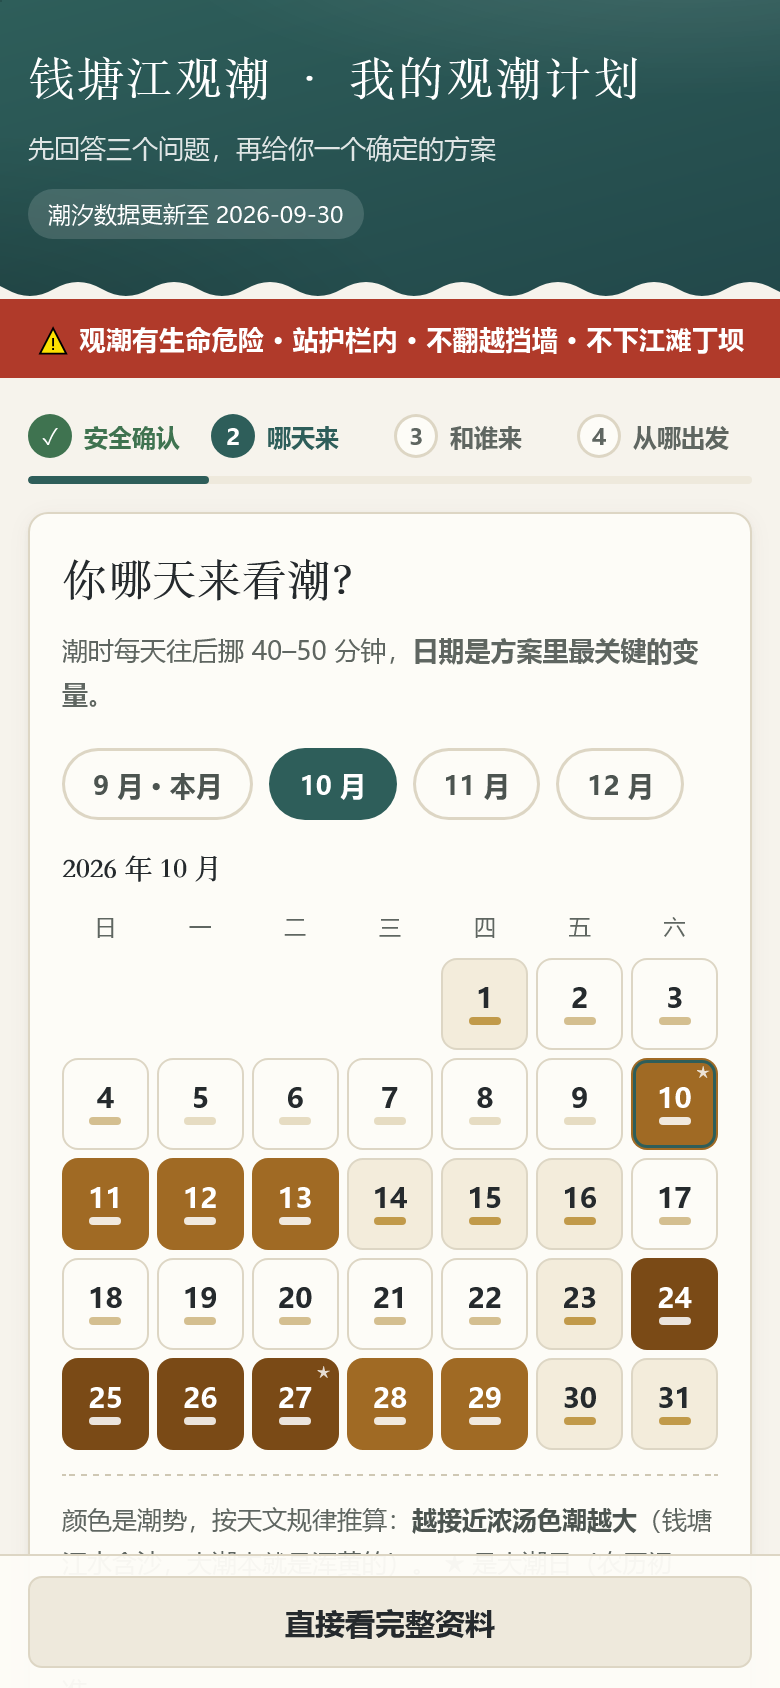
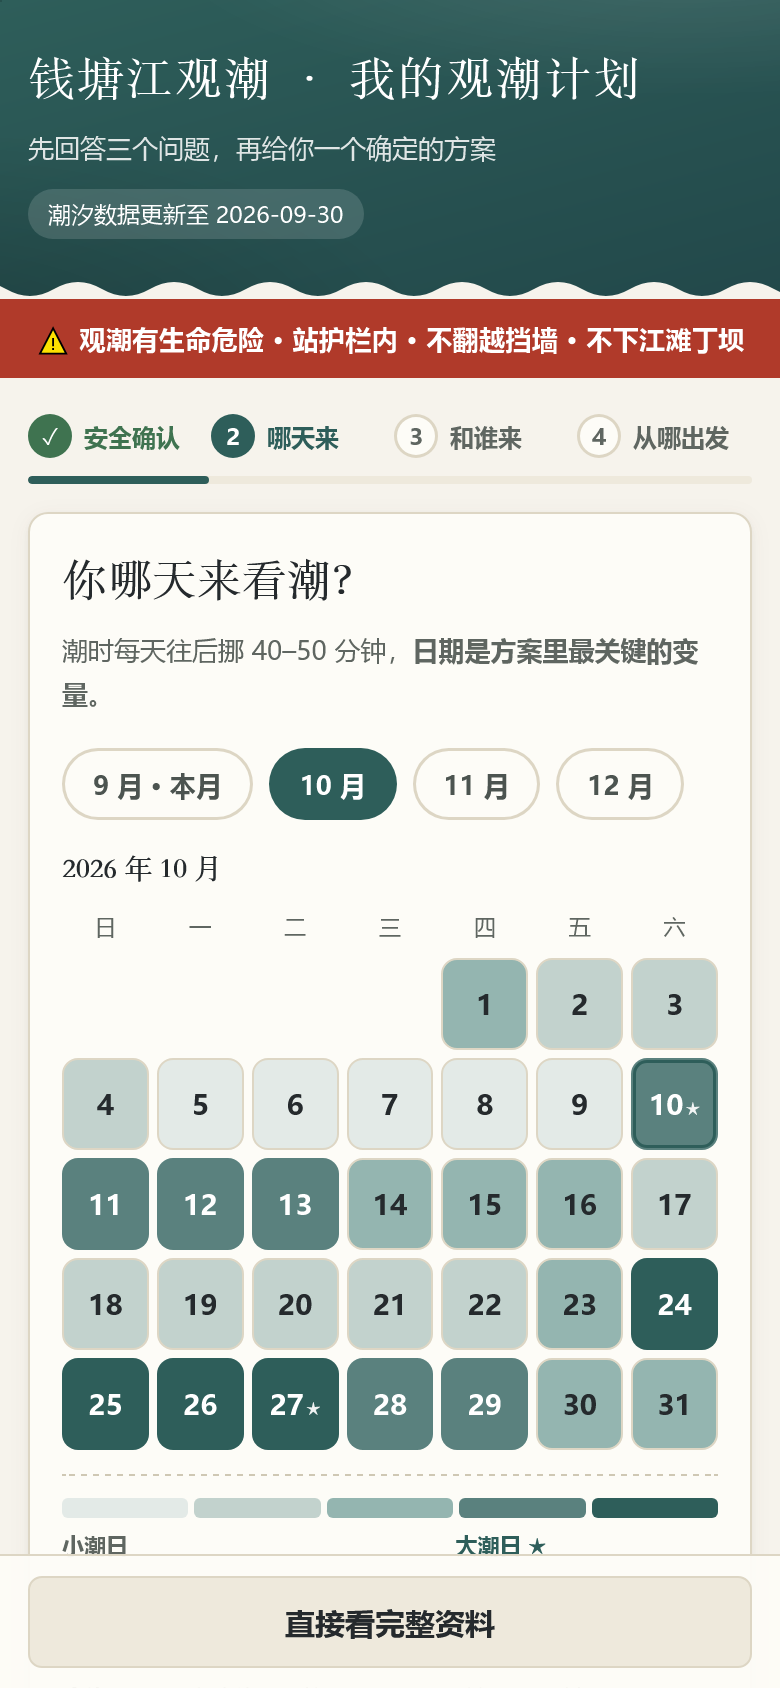
方案卡：前一天/后一天换日、涌高+潮型+分级说明、「怎么去」路线替代建议出发、实拍图占位；日历改黛青墨阶单通道编码

Changed region(s): [[0.0615, 0.5545, 0.9231, 0.9242]]

diff --git a/app.js b/app.js
@@ -268,11 +268,7 @@
       if (!target) return;
 
       let ms, label;
-      if (c.phase === 'planned' || c.phase === 'depart') {
-        ms = c.msToDepart; label = '距离出发';
-      } else {
-        ms = c.msToTide; label = '距离潮到';
-      }
+      ms = c.msToTide; label = '距离潮到';
 
       /* 阶段翻转时的重绘必须**异步**（setTimeout 0）。
          曾在这里同步调 renderPlanMain() → 它又会 startHeroTick → paint →
@@ -396,7 +392,6 @@
   function pointCardHtml(p, dateStr) {
     const rec = TideData.getTide(dateStr, p.id);
     const isWild = p.type === 'wild';
-    const c = rec ? CountdownEngine.compute(dateStr, p.id, { driveMinutes: driveMinutesOf(p.id) }) : null;
 
     const timeText = rec
       ? [(rec.morning && rec.morning !== '—' && rec.morning !== '...' ? `早 ${rec.morning}` : ''),
@@ -466,13 +461,13 @@
         <div class="point-tags">${tags.join('')}</div>
         <div class="point-body">
           <div class="kv"><span class="k">今日潮时</span><span class="v mono"><b>${timeText}</b>${!staleNow && level ? ` · ${stars(level)}` : ''}</span></div>
-          ${c && c.phase !== 'nodata' && c.phase !== 'passed' ? `<div class="kv"><span class="k">建议出发</span><span class="v mono">${CountdownEngine.hhmm(c.departAt)}（车程约 ${c.driveMinutes} 分${driveSourceTag(p.id)} + 提前 ${c.leadMinutes} 分候潮）</span></div>` : ''}
+          ${!staleNow && rec && rec.height ? `<div class="kv"><span class="k">涌高</span><span class="v mono">约 ${esc(rec.height)}</span></div>` : ''}
         </div>
         ${l3}
         ${wildFoot}
         <div class="point-actions">
           <button class="btn ${selected ? 'btn-primary' : 'btn-outline'}" data-pick="${p.id}">
-            ${selected ? '✓ 已选中' : '选它，算出发时间'}
+            ${selected ? '✓ 已选中' : '选它作为我的点位'}
           </button>
           <button class="btn btn-ghost" data-viewmap="${p.id}">复制导航词</button>
         </div>
@@ -1329,6 +1324,26 @@
     };
   }
 
+  /** 方案页快速换日（‹ ›）：只换日期，不动其他答案 */
+  function shiftDate(delta) {
+    if (!state.date) return;
+    const d = new Date(state.date + 'T00:00:00');
+    d.setDate(d.getDate() + delta);
+    const key = CountdownEngine.toDateKey(d);
+    if (key < todayKey()) { toast('过去的日子就不看了'); return; }
+    state.date = key; chosen.date = true;
+    state.customTideAM = ''; state.customTidePM = '';
+    saveState();
+    renderAll();
+  }
+
+  /** 点位实拍图：有照片用照片，没有先放占位（水墨底 + 点位名） */
+  function photoHtml(p, cls) {
+    return `<div class="${cls}">${p.photo
+      ? `<img src="${esc(p.photo)}" alt="${esc(p.name)}" loading="lazy">`
+      : `<span>${esc(p.short || p.name)} · 实拍图待补</span>`}</div>`;
+  }
+
   /** 某一步是否已答 */
   function isAnswered(step) {
     const q = QUESTIONS[step];
@@ -1454,11 +1469,10 @@
                 ${['日', '一', '二', '三', '四', '五', '六'].map(w => `<span class="ask-cal-wd">${w}</span>`).join('')}
                 ${'<span class="ask-cal-pad"></span>'.repeat(am.pad)}
                 ${am.days.map(day => day.past
-                  ? `<button type="button" class="ask-date" disabled><b>${day.d}</b></button>`
+                  ? `<button type="button" class="ask-date" disabled><span class="dn"><b>${day.d}</b></span></button>`
                   : `<button type="button" data-date="${day.key}" data-lv="${day.lv}" aria-pressed="${day.key === state.date}"
-                      class="ask-date ${day.key === state.date ? 'on' : ''} ${day.today ? 'today' : ''}"
-                      style="--lv:${TideData.levelColor(day.lv)}">
-                      <b>${day.d}</b>${day.peak ? '<i>★</i>' : ''}
+                      class="ask-date ${day.key === state.date ? 'on' : ''} ${day.today ? 'today' : ''}">
+                      <span class="dn"><b>${day.d}</b>${day.peak ? '<i>★</i>' : ''}</span>
                     </button>`).join('')}
               </div>
             </div>
@@ -1467,9 +1481,16 @@
             内置潮汐表已过期，<b>大潮日的具体潮时已隐去</b>；日历等级按天文规律推算，仍然可用。
             到方案页后请用「官方入口」查当日权威潮时。</div>` : ''}
           <div class="ask-cal-legend">
-            颜色是潮势，按天文规律推算：<b>越接近浓汤色潮越大</b>（钱塘江水含沙，大潮本就是浑黄的）。
-            ★ 是大潮日（农历初三、十八前后最盛），大潮日给出具体潮时；
-            小潮日只有等级，大概率只看到一条白线。出发前以当日官方预报为准。
+            <div class="lg-bar">
+              <div class="lg-cells">
+                <span style="background:var(--lv1)"></span><span style="background:var(--lv2)"></span><span style="background:var(--lv3)"></span><span style="background:var(--lv4)"></span><span style="background:var(--lv5)"></span>
+              </div>
+              <div class="lg-zones"><span>小潮日</span><span class="z2">大潮日 ★</span></div>
+            </div>
+            <p>潮势根据天文规律推算，用颜色表示：<b>颜色越深则潮越大</b>，★ 为大潮日（农历初三、十八前后最盛）</p>
+            <p><b>大潮日</b>：一定来潮，时间大概准，误差几十分钟</p>
+            <p><b>小潮日</b>：不一定来潮，时间很不准，可能白跑一趟，看到一条"白线"</p>
+            <p>不管哪天，出发前查当日官方预报，那才是"今天到底几点几分来"。</p>
           </div>
         </div>`;
 
@@ -1782,8 +1803,11 @@
         const near = TideData.allDates.find(d2 => d2 >= dateStr);
         const nearDay = near ? TideData.TIDE_TABLE[near] : null;
         const lv = TideData.approxLevel(dateStr);
+        const sd = new Date(dateStr + 'T00:00:00');
+        const sweek = '日一二三四五六'[sd.getDay()];
         box.innerHTML = `<div class="plan-card">
           <div class="plan-kicker">你的方案</div>
+          <div class="plan-when"><button class="day-nav" id="dayPrev" aria-label="前一天">‹</button><span>${sd.getMonth() + 1} 月 ${sd.getDate()} 日 · 周${sweek}</span><button class="day-nav" id="dayNext" aria-label="后一天">›</button></div>
           <h2 class="plan-where">这天是小潮</h2>
           <p class="plan-why">按天文规律推算，这天潮势${lv <= 2 ? '较弱' : '一般'}，
             大概率只能看到一条白线，看不到成型的潮头，本站不为此给出具体潮时。
@@ -1795,6 +1819,8 @@
         </div>`;
         const gp = $('#gotoPeak');
         if (gp && near) gp.addEventListener('click', () => { setDate(near); });
+        const dp0 = $('#dayPrev'); if (dp0) dp0.addEventListener('click', () => shiftDate(-1));
+        const dn0 = $('#dayNext'); if (dn0) dn0.addEventListener('click', () => shiftDate(1));
       }
       const b = $('#planBackAsk'); if (b) b.addEventListener('click', () => editAnswer('date'));
       return;
@@ -1808,7 +1834,6 @@
 
     const d = new Date(dateStr + 'T00:00:00');
     const week = '日一二三四五六'[d.getDay()];
-    const dd = driveFor(point.id);
 
     /* ---- 潮时区：过期时不给数字 ---- */
     let timesHtml;
@@ -1827,34 +1852,28 @@
           ].filter(Boolean).join(' · ') || '当天无潮时数据'
         : '当天无潮时数据';
 
-      const departOk = c.phase !== 'nodata' && c.phase !== 'passed';
       timesHtml = `<div class="plan-times">
         <div class="span2">
           <div class="k">潮时</div>
           <div class="v">${esc(tideTxt)}</div>
-          ${rec && rec.level ? `<div class="n">潮势 ${TideData.levelText(rec.level)}（${stars(rec.level)}）${rec.overridden ? ' · 已按你的校正' : ''}</div>` : ''}
+          ${rec && rec.level ? `<div class="n">潮势 ${TideData.levelText(rec.level)}（${stars(rec.level)} · ${TideData.levelAdvice(rec.level)}）${rec.height ? ` · 涌高约 ${esc(rec.height)}` : ''}${rec.overridden ? ' · 已按你的校正' : ''}</div>` : ''}
+          <div class="n">潮型：${point.tideTypes.map(esc).join(' · ')}</div>
         </div>
-        <div>
-          <div class="k">建议出发</div>
-          <div class="v">${departOk ? CountdownEngine.hhmm(c.departAt) : '—'}</div>
-          <div class="n">${departOk ? departDateNote(c.departAt) : '当天潮已过或无数据'}</div>
-        </div>
-        <div>
-          <div class="k">车程</div>
-          <div class="v">约 ${dd.minutes} 分</div>
-          <div class="n">${dd.source === 'amap' ? '高德实时路况' : (dd.source === 'user' ? '你手动填写' : '按直线距离估算')}
-            ${state.driveMinutes != null
-              ? `<button class="link-btn" id="driveReset">改回自动估算</button>`
-              : `<button class="link-btn" id="driveEdit">不准？手动改</button>`}</div>
+        <div class="span2">
+          <div class="k">怎么去</div>
+          ${[
+            point.transport.rail ? { ico: '🚄', t: '铁路 / 城际', d: point.transport.rail } : null,
+            { ico: '🚗', t: '自驾 / 打车', d: point.transport.nav + (point.transport.parking ? '；' + point.transport.parking : '') },
+            point.transport.extra ? { ico: '🧭', t: '补充', d: point.transport.extra } : null
+          ].filter(Boolean).map(r => `<div class="route-line"><span class="ri">${r.ico}</span><b>${r.t}</b>${esc(r.d)}</div>`).join('')}
         </div>
       </div>`;
     }
 
-    /* ---- 倒计时 ---- */
+    /* ---- 倒计时：统一倒数到潮到（出发时间已按用户决策从方案卡撤下） ---- */
     let countHtml = '';
     if (!staleNow && c.phase !== 'nodata') {
-      const ms = (c.phase === 'planned' || c.phase === 'depart') ? c.msToDepart : c.msToTide;
-      const lbl = (c.phase === 'planned' || c.phase === 'depart') ? '距离出发' : '距离潮到';
+      const lbl = '距离潮到';
       const ui = CountdownEngine.PHASE_UI[c.phase] || CountdownEngine.PHASE_UI.nodata;
       const capTxt = lbl === ui.title ? lbl : `${lbl} · ${ui.title}`;
       countHtml = `<div class="plan-count">
@@ -1877,7 +1896,8 @@
     box.innerHTML = `
       <div class="plan-card" style="${staleNow ? 'border-top-color:var(--warn)' : ''}">
         <div class="plan-kicker">${staleNow ? '你的方案（数据已过期）' : '你的方案'}</div>
-        <div class="plan-when">${d.getMonth() + 1} 月 ${d.getDate()} 日 · 周${week} · ${esc(day.lunisolar)}${day.peak ? ' · 峰值日' : ''}</div>
+        <div class="plan-when"><button class="day-nav" id="dayPrev" aria-label="前一天">‹</button><span>${d.getMonth() + 1} 月 ${d.getDate()} 日 · 周${week} · ${esc(day.lunisolar)}${day.peak ? ' · 峰值日' : ''}</span><button class="day-nav" id="dayNext" aria-label="后一天">›</button></div>
+        ${photoHtml(point, 'plan-photo')}
         <h2 class="plan-where">去 ${esc(point.name)}</h2>
         <p class="plan-why">${reasons.filter(Boolean).map(esc).join(' ')}</p>
         ${countHtml}
@@ -1893,30 +1913,9 @@
     /* 倒计时 tick */
     if (countHtml) startHeroTick();
 
-    /* 手动车程覆盖（P0-01 保留功能）：估算不准时用户可改 */
-    const driveEditBtn = $('#driveEdit');
-    if (driveEditBtn) {
-      driveEditBtn.addEventListener('click', () => {
-        const val = window.prompt('从出发地到这里开车大约要多久？（分钟）', String(dd.minutes));
-        if (val == null) return;
-        const n = parseInt(val, 10);
-        if (!Number.isFinite(n) || n <= 0 || n > 600) { toast('请输入 1–600 之间的分钟数'); return; }
-        state.driveMinutes = n;
-        saveState();
-        renderAll();
-        toast('已按 ' + n + ' 分钟车程重算出发时间');
-      });
-    }
-    const driveResetBtn = $('#driveReset');
-    if (driveResetBtn) {
-      driveResetBtn.addEventListener('click', () => {
-        state.driveMinutes = null;
-        saveState();
-        renderAll();
-        if (state.pointId) upgradeDrive(state.pointId);
-        toast('已改回自动估算');
-      });
-    }
+    /* 前一天 / 后一天 */
+    const dp = $('#dayPrev'); if (dp) dp.addEventListener('click', () => shiftDate(-1));
+    const dn2 = $('#dayNext'); if (dn2) dn2.addEventListener('click', () => shiftDate(1));
 
     $('#planNav').addEventListener('click', () => {
       copyText(point.transport.nav, '导航关键词已复制');

diff --git a/app.css b/app.css
@@ -54,12 +54,12 @@
   --info-bg: var(--ink-bg);
   --info-border: var(--ink-border);
 
-  /* 潮势等级色（潮水本色：钱塘江含沙，潮越大汤越浓） */
-  --lv5: #7a4a16;
-  --lv4: #a06a24;
-  --lv3: #c19a4a;
-  --lv2: #d4bf90;
-  --lv1: #e6dcc2;
+  /* 潮势等级色（黛青墨阶：潮越大墨越浓，与页面主色同族） */
+  --lv5: #2e5e5a;
+  --lv4: #5a817e;
+  --lv3: #94b5b0;
+  --lv2: #c2d2cd;
+  --lv1: #e3eae7;
 
   --radius: 10px;
   --radius-sm: 7px;
@@ -748,34 +748,29 @@ body { padding-bottom: 108px; }
 }
 .ask-date:active { transform: scale(.94); }
 .ask-date b { font-size: 14px; font-weight: 600; font-variant-numeric: tabular-nums; line-height: 1; }
-/* 潮势小条：所有日子都有，弱潮浅、强潮浓 */
-.ask-date::after {
-  content: ""; width: 16px; height: 4px; border-radius: 2px;
-  background: var(--lv, var(--lv1));
-}
-.ask-date[data-lv="3"] { background: color-mix(in srgb, var(--lv3) 16%, var(--surface)); }
+/* 潮势只用「背景深浅」一个通道：墨越浓潮越大，大潮日实心深青白字 */
+.ask-date[data-lv="1"] { background: var(--lv1); }
+.ask-date[data-lv="2"] { background: var(--lv2); }
+.ask-date[data-lv="3"] { background: var(--lv3); }
 .ask-date[data-lv="4"] {
   background: var(--lv4); color: #fff; border-color: transparent; font-weight: 700;
 }
-.ask-date[data-lv="4"]::after { background: rgba(255,255,255,.85); }
 .ask-date[data-lv="5"] {
   background: var(--lv5); color: #fff; border-color: transparent; font-weight: 700;
 }
-.ask-date[data-lv="5"]::after { background: rgba(255,255,255,.85); }
 /* 过去的日子：置灰、不可点、不带潮势 */
 .ask-date:disabled {
   background: transparent; border-color: transparent;
   color: var(--text-3); opacity: .45; cursor: default;
 }
-.ask-date:disabled::after { display: none; }
 .ask-date:disabled:active { transform: none; }
-/* ★ 大潮日：右上角小星 */
+/* ★ 大潮日：跟在日期数字旁 */
+.ask-date .dn { display: flex; align-items: baseline; gap: 1px; }
 .ask-date i {
-  position: absolute; top: 1px; right: 3px;
-  font-style: normal; font-size: 8.5px; line-height: 1;
-  color: var(--lv5); opacity: .9;
+  font-style: normal; font-size: 9px; line-height: 1;
+  color: var(--ink);
 }
-.ask-date[data-lv="4"] i, .ask-date[data-lv="5"] i { color: rgba(255,255,255,.9); }
+.ask-date[data-lv="4"] i, .ask-date[data-lv="5"] i { color: rgba(255,255,255,.92); }
 /* 今天：黛青描边；选中：黛青双环 */
 .ask-date.today { border-color: var(--ink); }
 .ask-date.on { box-shadow: 0 0 0 1.5px var(--ink) inset; }
@@ -783,7 +778,17 @@ body { padding-bottom: 108px; }
   margin-top: 12px; padding-top: 11px; border-top: 1px dashed var(--line);
   font-size: 12.5px; color: var(--text-3); line-height: 1.7;
 }
+.ask-cal-legend p { margin: 5px 0; }
 .ask-cal-legend b { color: var(--text-2); }
+/* 潮势色阶尺：前 3 格是小潮区、后 2 格深色区是大潮区 */
+.lg-bar { margin-bottom: 9px; }
+.lg-cells { display: grid; grid-template-columns: repeat(5, 1fr); gap: 3px; }
+.lg-cells span { height: 10px; border-radius: 3px; }
+.lg-zones {
+  display: grid; grid-template-columns: 3fr 2fr;
+  font-size: 11px; font-weight: 600; color: var(--text-3); margin-top: 4px;
+}
+.lg-zones .z2 { color: var(--lv5); }
 
 /* 出发地下拉（向导内） */
 .ask-select-wrap { margin-top: 4px; }
@@ -861,7 +866,35 @@ body { padding-bottom: 108px; }
 }
 .plan-when {
   font-size: 13px; color: var(--text-3); font-weight: 600; margin-bottom: 6px;
+  display: flex; align-items: center; gap: 9px;
 }
+/* 前一天 / 后一天：方案页快速换日 */
+.day-nav {
+  flex: none; width: 32px; height: 32px; border-radius: 50%;
+  border: 1px solid var(--border); background: var(--surface-2);
+  color: var(--ink); font-size: 16px; line-height: 1; cursor: pointer;
+  display: inline-flex; align-items: center; justify-content: center;
+  transition: background .12s, border-color .12s;
+}
+.day-nav:hover { background: var(--ink-bg); border-color: var(--ink-border); }
+
+/* 点位实拍（占位时为水墨底） */
+.plan-photo {
+  margin: 4px 0 14px; border-radius: var(--radius-sm); overflow: hidden;
+  aspect-ratio: 16 / 9;
+  background:
+    radial-gradient(120% 140% at -10% 120%, rgba(0,0,0,.18), transparent 55%),
+    linear-gradient(160deg, #3a6b67 0%, #22484a 100%);
+  display: flex; align-items: center; justify-content: center;
+  color: rgba(255,255,255,.72);
+  font-family: var(--serif); font-size: 15px; letter-spacing: 2px;
+}
+.plan-photo img { width: 100%; height: 100%; object-fit: cover; display: block; }
+
+/* 怎么去：推荐路线 */
+.route-line { font-size: 12.5px; line-height: 1.65; margin: 6px 0; color: var(--text-2); }
+.route-line .ri { margin-right: 3px; }
+.route-line b { color: var(--text); margin-right: 5px; }
 .plan-where {
   font-family: var(--serif);
   font-size: 25px; font-weight: 700; line-height: 1.3; margin: 0 0 6px;

diff --git a/lib/tide-data.js b/lib/tide-data.js
@@ -835,20 +835,25 @@ const TideData = {
 
   /** 星级 → 色阶（红=最盛） */
   levelColor(level) {
-    /* 潮水本色：钱塘江水含沙，潮越大汤越浓——等级色阶取浑黄泥沙调 */
+    /* 黛青墨阶：潮越大墨越浓，与页面主色同族 */
     const map = {
-      5: '#7a4a16',
-      4: '#a06a24',
-      3: '#c19a4a',
-      2: '#d4bf90',
-      1: '#e6dcc2'
+      5: '#2e5e5a',
+      4: '#5a817e',
+      3: '#94b5b0',
+      2: '#c2d2cd',
+      1: '#e3eae7'
     };
-    return map[level] || '#e6dcc2';
+    return map[level] || '#e3eae7';
   },
 
-  /** 色块上的文字颜色：浓汤（L5·L4）用白字，浅汤（L3–L1）用深字 */
+  /** 色块上的文字颜色：浓块（L5·L4）用白字，浅块（L3–L1）用深字 */
   levelTextColor(level) {
     return level >= 4 ? '#ffffff' : '#000000';
+  },
+
+  /** 星级分级口径（对齐官方观赏等级：一星不推荐 … 五星强烈推荐） */
+  levelAdvice(level) {
+    return ({ 1: '不推荐', 2: '不推荐', 3: '适宜观潮', 4: '推荐观潮', 5: '强烈推荐，不容错过' })[level] || '';
   },
 
   /** 农历日推算锚点：取内置表中标注「初一」的那天（大潮窗口与朔望对齐，表内必有） */
